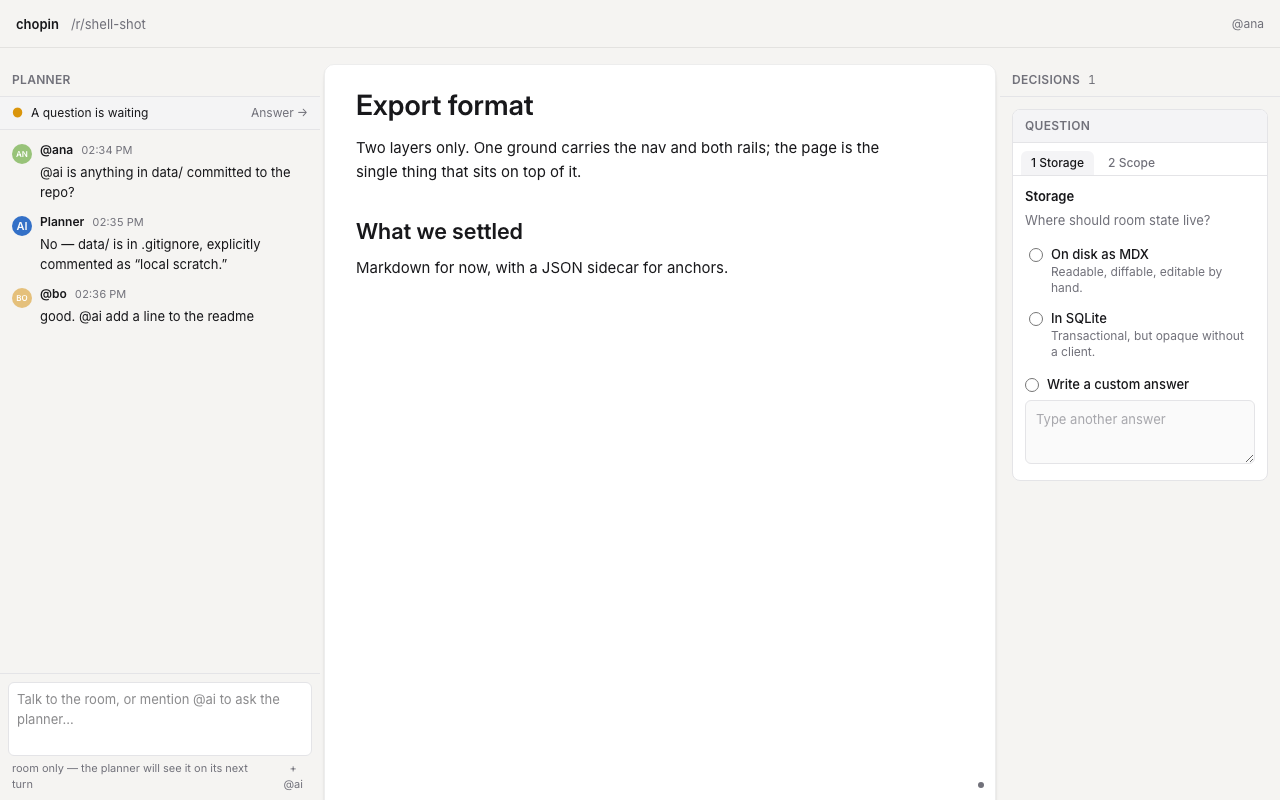
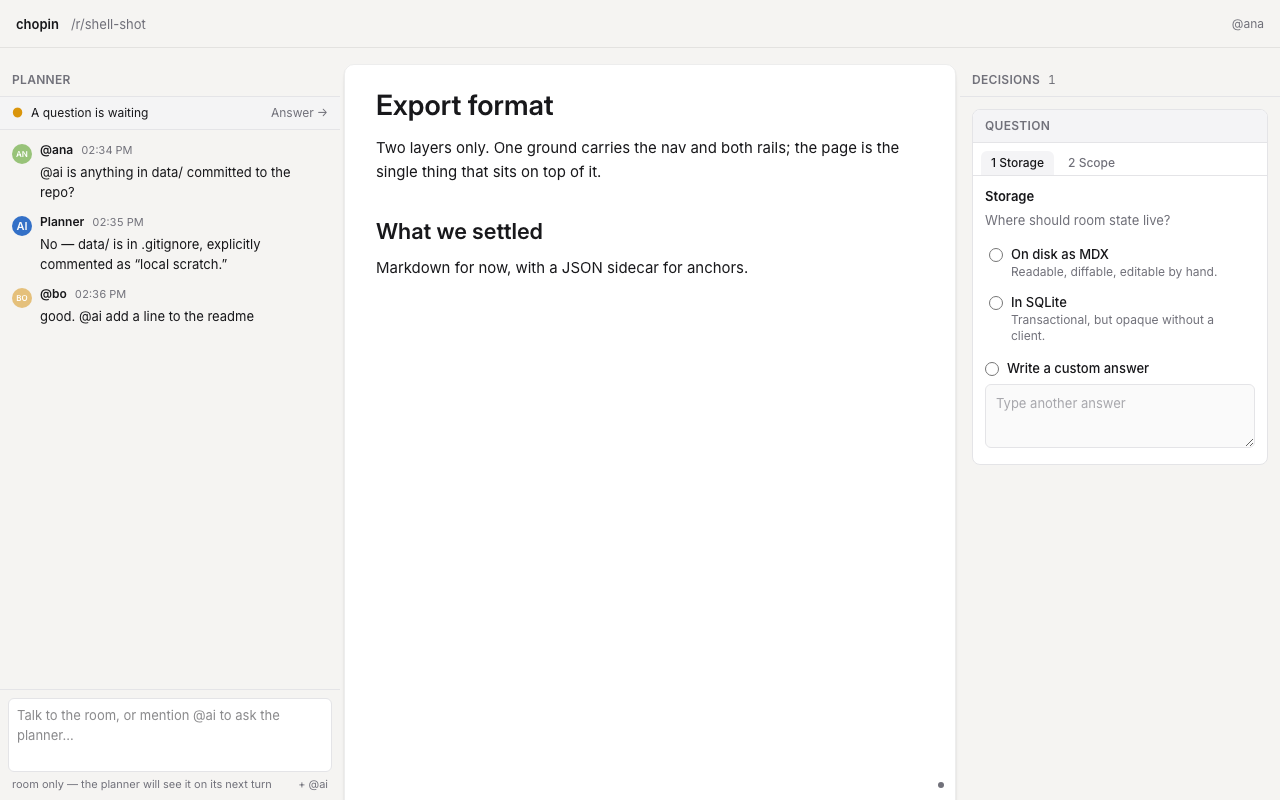
Put both handles where a keyboard can actually reach them
The plan is a Lexical surface, and `listsPlugin` mounts
`TabIndentationPlugin`, which calls `preventDefault` on Tab before it has
looked at `shiftKey` — Tab indents, Shift-Tab outdents, and focus that lands
in the editor does not leave it in either direction. Lexical says so in that
plugin's own doc comment. Both handles sat behind the editor in the markup,
so a keyboard reached neither of them. They are positioned, so moving them
ahead of the plan changes what order they are tabbed to and nothing about
where they are drawn.

The test called `focus()`, which arrives at anything in the document whether
or not a person could, and so passed against exactly that shell. It walks the
tab order now, and says where it got to instead when it does not arrive.

`ring-hairline` is `hairline-ring`. `--color-hairline` is a theme token, so
Tailwind already mints a class from it in every colour namespace; a utility
declared under one of those names merges into the generated rule rather than
replacing it, and the built class carried `--tw-ring-color` beside the outline
that was the whole point.

The rails are back at 340 and 320. Nothing in this task asks for other
numbers, and the pictures are retaken at the widths that restores.

diff --git a/e2e/shell.e2e.ts b/e2e/shell.e2e.ts
@@ -242,6 +242,44 @@ test("a drag the browser takes away still puts the bar down", async ({ join, pag
 	await expect.poll(() => drawn(handle)).toBe("0");
 });
 
+/**
+ * Tab forward from the top of the document until `target` has focus.
+ *
+ * Arriving at a handle is half of what "resized using only the keyboard" claims,
+ * and it is the half that `focus()` cannot check: `focus()` reaches anything in
+ * the document whether or not a person could. These handles draw nothing at
+ * rest, so the tab order is the only way to find one — and the plan is a Lexical
+ * surface that swallows Tab in both directions, `listsPlugin` having mounted
+ * `TabIndentationPlugin` to indent on Tab and outdent on Shift-Tab. Focus that
+ * lands in it stays in it, so a handle behind it in the tab order is a handle no
+ * keyboard reaches. That is the shell this walk exists to fail on, and the shell
+ * `focus()` passed.
+ *
+ * Bounded, therefore, rather than looping until it arrives: on that shell it
+ * never does, and the presses would go on typing into the plan. What it walked
+ * past is reported, because "never got there" is only useful alongside where it
+ * got to instead.
+ */
+async function tabTo(page: Page, target: Locator, presses = 24): Promise<void> {
+	await page.evaluate(() => (document.activeElement as HTMLElement | null)?.blur());
+
+	let stops: string[] = [];
+	for (let press = 0; press < presses; press++) {
+		await page.keyboard.press("Tab");
+		if (await target.evaluate(element => element === document.activeElement)) return;
+
+		stops.push(
+			await page.evaluate(() => {
+				let active = document.activeElement as HTMLElement | null;
+				if (!active || active === document.body) return "nothing";
+				return active.getAttribute("aria-label") ?? active.localName;
+			}),
+		);
+	}
+
+	throw new Error(`never reached by tabbing forward; stopped at ${stops.join(" → ")}`);
+}
+
 test("both rails can be resized with the keyboard alone", async ({ join, page }) => {
 	await join("ana");
 
@@ -256,7 +294,7 @@ test("both rails can be resized with the keyboard alone", async ({ join, page })
 		let handle = page.getByRole("separator", { name });
 		let before = (await box(rail)).width;
 
-		await handle.focus();
+		await tabTo(page, handle);
 		await handle.press("ArrowRight");
 		await handle.press("ArrowRight");
 

diff --git a/apps/web/src/workspace.tsx b/apps/web/src/workspace.tsx
@@ -136,8 +136,8 @@ export type WorkspaceProps = {
 };
 
 export function Workspace({ chat, decisions, header, plan }: WorkspaceProps) {
-	let [chatWidth, resizeChat] = usePaneWidth("chopin:pane:chat", 320);
-	let [decisionsWidth, resizeDecisions] = usePaneWidth("chopin:pane:decisions", 280);
+	let [chatWidth, resizeChat] = usePaneWidth("chopin:pane:chat", 340);
+	let [decisionsWidth, resizeDecisions] = usePaneWidth("chopin:pane:decisions", 320);
 
 	return (
 		// Clipped, because the page is deliberately taller than the room it is in.
@@ -171,8 +171,25 @@ export function Workspace({ chat, decisions, header, plan }: WorkspaceProps) {
 						aria-hidden="true"
 						className="pointer-events-none absolute inset-x-1 top-0 -bottom-3 rounded-t-xl bg-page shadow-raised ring-hairline"
 					/>
-					<div className="relative h-full overflow-hidden rounded-t-xl">{plan}</div>
 
+					{
+						/*
+						 * Both handles, ahead of the plan and not after it.
+						 *
+						 * They are positioned, so where they sit in the markup decides
+						 * nothing about where they are drawn — it decides only what order
+						 * they are tabbed to, and that is the whole reason they are here.
+						 * The plan is a Lexical surface, and `listsPlugin` mounts
+						 * `TabIndentationPlugin`, which calls `preventDefault` on Tab
+						 * before it has looked at `shiftKey`: Tab indents and Shift-Tab
+						 * outdents, so focus that reaches the editor does not leave it in
+						 * either direction. Anything behind it in the tab order is
+						 * unreachable. Handles that draw nothing at rest have only the tab
+						 * order to be found by, so behind the editor is nowhere at all.
+						 *
+						 * Left before right, so the order runs along the screen.
+						 */
+					}
 					{chat && (
 						<Handle
 							label="Resize the conversation"
@@ -189,6 +206,8 @@ export function Workspace({ chat, decisions, header, plan }: WorkspaceProps) {
 							width={decisionsWidth}
 						/>
 					)}
+
+					<div className="relative h-full overflow-hidden rounded-t-xl">{plan}</div>
 				</main>
 
 				{decisions && (

diff --git a/tasks/005-rebuild-app-shell.md b/tasks/005-rebuild-app-shell.md
@@ -103,6 +103,24 @@ appear, none of which the shell puts there and none of which this task touches:
 - a table's grips and insert buttons, whose 1px ring is drawn in `box-shadow`
   because a `<table>` cannot contain a `<div>` to put a border on
 
+"Both rails can be resized using only the keyboard" is read as reached and then
+resized, rather than as resized alone. The test tabs forward from the top of the
+document until the handle takes focus, because `focus()` arrives at anything in
+the document whether or not a person could — and here a person could not. The
+plan is a Lexical surface, and `listsPlugin` mounts `TabIndentationPlugin`,
+which calls `preventDefault` on Tab before it has looked at `shiftKey`: Tab
+indents, Shift-Tab outdents, and focus that lands in the editor does not leave
+it in either direction. Lexical says as much in that plugin's own doc comment.
+Both handles sat behind the editor in the markup, so neither was reachable at
+all; they are ahead of it now. They are positioned, so the move changes only
+what order they are tabbed to and nothing about where they are drawn. Put back
+the old way, the walk reports precisely what it is there for:
+
+```
+never reached by tabbing forward; stopped at
+textarea → button → editable markdown → editable markdown → … (×22)
+```
+
 `bun run shot:shell` takes the two pictures. It seeds one room — the same plan,
 the same questionnaire, the same three lines of conversation — and opens it
 twice, so the pair differ only in the width they were taken at. The transcript
@@ -121,6 +139,15 @@ specifies. Two sources in that task disagree about the ring — the notes say 7%
 and the shadow frame says 6% — and 7% is what is written, since that is the
 number stated as the passive-edge token rather than as an aside in a shadow
 table.
+
+The ring those tokens draw is `hairline-ring`, and not `ring-hairline` as it
+reads more naturally. `--color-hairline` is a theme token, so Tailwind already
+mints a class from it in every colour namespace — `ring-hairline` among them,
+setting `--tw-ring-color`. A utility declared under a name Tailwind has already
+generated does not replace it, it merges into it, and the class quietly does two
+things: the built rule carried `--tw-ring-color` alongside the outline that was
+the entire point. Anything shaped `<namespace>-hairline` is spoken for, so this
+one is named from `hairline` like `hairline-b` beside it.
 
 `scripts/stack.ts` is the dev stack both of the browser scripts here start —
 Vite and the server in one process, on ports the OS chose. `check:console`
